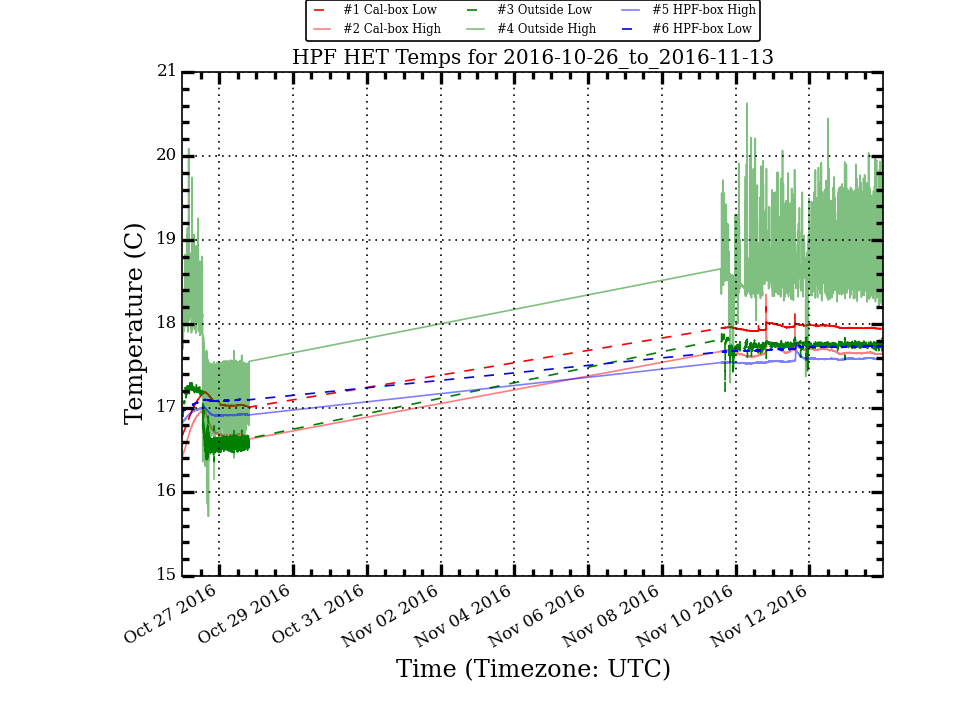
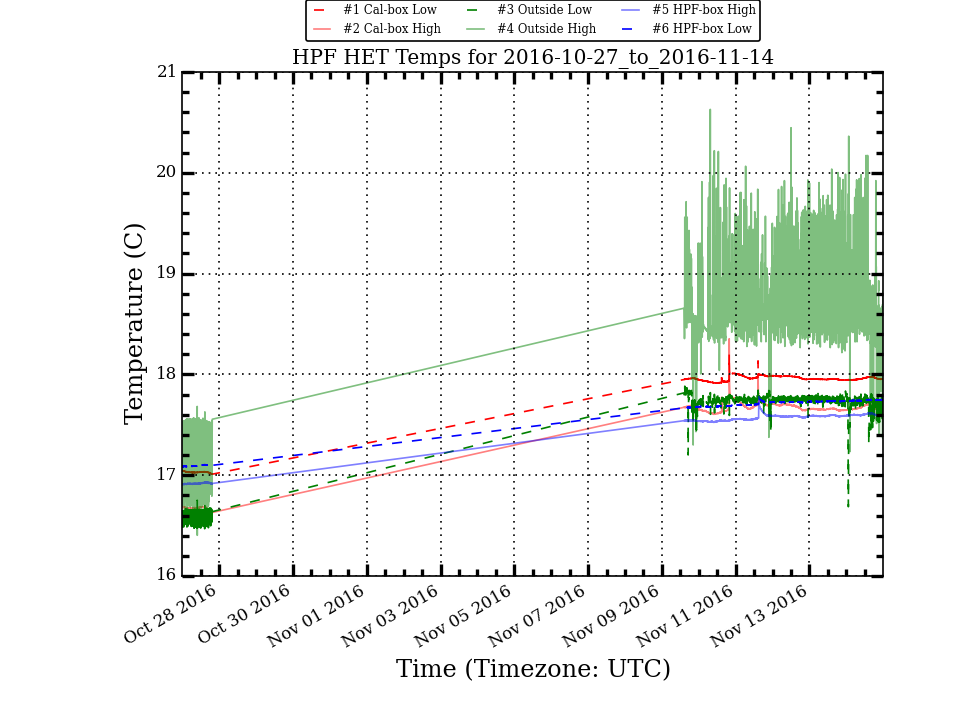
Update HPF Temp Plots

diff --git a/research/hpf_temps/plots/LakeShoreLogTotal_week_stats.html b/research/hpf_temps/plots/LakeShoreLogTotal_week_stats.html
@@ -10,56 +10,56 @@
  </TR>
  <TR>
   <TD>Cal_Low</TD>
-  <TD>17.690</TD>
-  <TD>0.428</TD>
-  <TD>17.951</TD>
+  <TD>17.840</TD>
+  <TD>0.315</TD>
+  <TD>17.954</TD>
   <TD>18.205</TD>
-  <TD>16.674</TD>
-  <TD>1.531</TD>
+  <TD>17.010</TD>
+  <TD>1.195</TD>
  </TR>
  <TR>
   <TD>Cal_High</TD>
-  <TD>17.400</TD>
-  <TD>0.435</TD>
-  <TD>17.651</TD>
+  <TD>17.543</TD>
+  <TD>0.340</TD>
+  <TD>17.658</TD>
   <TD>18.353</TD>
-  <TD>16.427</TD>
-  <TD>1.926</TD>
+  <TD>16.621</TD>
+  <TD>1.732</TD>
  </TR>
  <TR>
   <TD>Out_Low</TD>
-  <TD>17.461</TD>
-  <TD>0.467</TD>
-  <TD>17.730</TD>
+  <TD>17.585</TD>
+  <TD>0.389</TD>
+  <TD>17.735</TD>
   <TD>17.883</TD>
-  <TD>16.362</TD>
-  <TD>1.521</TD>
+  <TD>16.459</TD>
+  <TD>1.424</TD>
  </TR>
  <TR>
   <TD>Out_High</TD>
-  <TD>18.369</TD>
-  <TD>0.651</TD>
-  <TD>18.496</TD>
+  <TD>18.522</TD>
+  <TD>0.571</TD>
+  <TD>18.567</TD>
   <TD>20.629</TD>
-  <TD>15.710</TD>
-  <TD>4.919</TD>
+  <TD>16.404</TD>
+  <TD>4.225</TD>
  </TR>
  <TR>
   <TD>HPF_High</TD>
-  <TD>17.384</TD>
-  <TD>0.292</TD>
-  <TD>17.548</TD>
+  <TD>17.489</TD>
+  <TD>0.223</TD>
+  <TD>17.581</TD>
   <TD>17.780</TD>
-  <TD>16.829</TD>
-  <TD>0.951</TD>
+  <TD>16.905</TD>
+  <TD>0.875</TD>
  </TR>
  <TR>
   <TD>HPF_Low</TD>
-  <TD>17.525</TD>
-  <TD>0.290</TD>
-  <TD>17.691</TD>
+  <TD>17.635</TD>
+  <TD>0.211</TD>
+  <TD>17.724</TD>
   <TD>17.783</TD>
-  <TD>16.957</TD>
-  <TD>0.826</TD>
+  <TD>17.083</TD>
+  <TD>0.700</TD>
  </TR>
 </TABLE>

diff --git a/research/hpf_temps/plots/LakeShoreLogTotal_month_stats.html b/research/hpf_temps/plots/LakeShoreLogTotal_month_stats.html
@@ -10,8 +10,8 @@
  </TR>
  <TR>
   <TD>Cal_Low</TD>
-  <TD>16.848</TD>
-  <TD>0.490</TD>
+  <TD>16.887</TD>
+  <TD>0.529</TD>
   <TD>16.634</TD>
   <TD>18.205</TD>
   <TD>16.258</TD>
@@ -19,8 +19,8 @@
  </TR>
  <TR>
   <TD>Cal_High</TD>
-  <TD>16.469</TD>
-  <TD>0.535</TD>
+  <TD>16.513</TD>
+  <TD>0.577</TD>
   <TD>16.235</TD>
   <TD>18.353</TD>
   <TD>15.827</TD>
@@ -28,26 +28,26 @@
  </TR>
  <TR>
   <TD>Out_Low</TD>
-  <TD>16.353</TD>
-  <TD>0.664</TD>
-  <TD>16.111</TD>
+  <TD>16.401</TD>
+  <TD>0.707</TD>
+  <TD>16.113</TD>
   <TD>17.883</TD>
   <TD>14.006</TD>
   <TD>3.877</TD>
  </TR>
  <TR>
   <TD>Out_High</TD>
-  <TD>17.168</TD>
-  <TD>0.811</TD>
-  <TD>17.045</TD>
+  <TD>17.219</TD>
+  <TD>0.860</TD>
+  <TD>17.048</TD>
   <TD>20.629</TD>
   <TD>14.470</TD>
   <TD>6.159</TD>
  </TR>
  <TR>
   <TD>HPF_High</TD>
-  <TD>16.967</TD>
-  <TD>0.264</TD>
+  <TD>16.987</TD>
+  <TD>0.288</TD>
   <TD>16.893</TD>
   <TD>17.780</TD>
   <TD>16.605</TD>
@@ -55,8 +55,8 @@
  </TR>
  <TR>
   <TD>HPF_Low</TD>
-  <TD>17.150</TD>
-  <TD>0.245</TD>
+  <TD>17.170</TD>
+  <TD>0.267</TD>
   <TD>17.088</TD>
   <TD>17.783</TD>
   <TD>16.829</TD>
